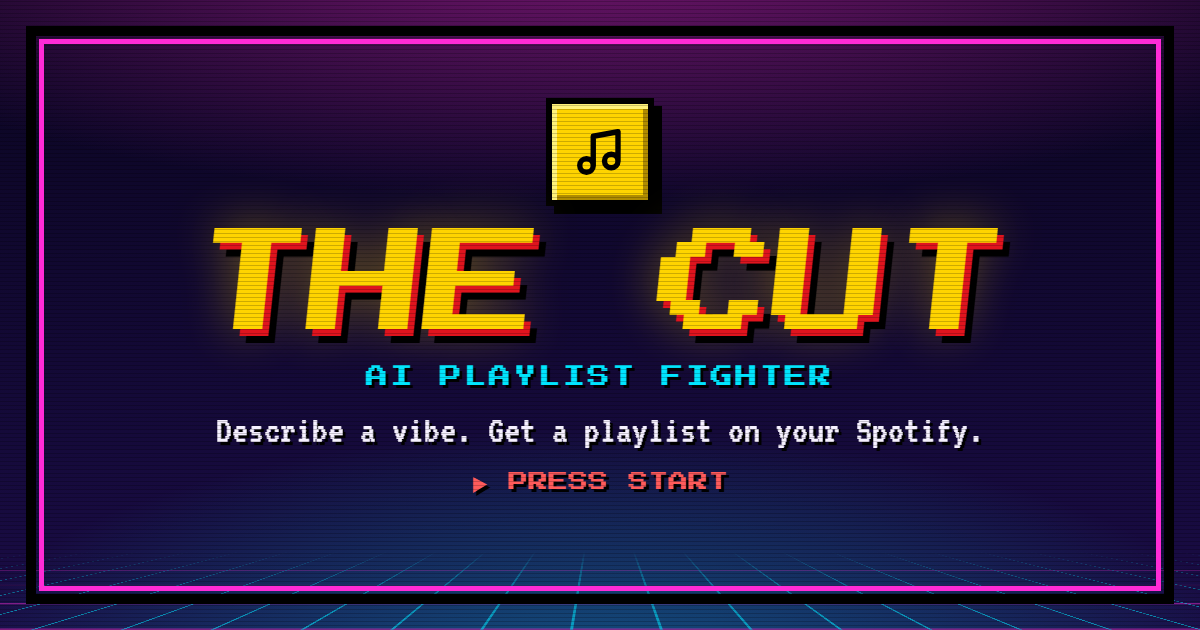
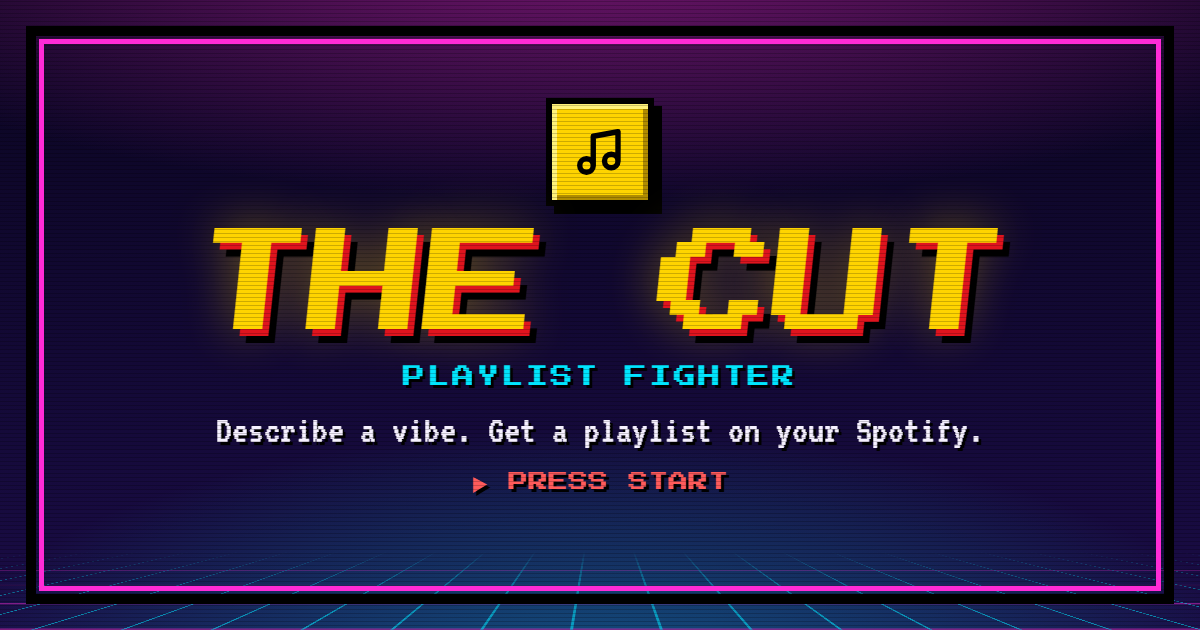
changed from AI playlist Fighter to Playlist Fighter

Changed region(s): [[0.3083, 0.573, 0.7092, 0.6333]]

diff --git a/index.html b/index.html
@@ -15,13 +15,13 @@
          so these must live in the static HTML, and URLs must be absolute. -->
     <meta property="og:type" content="website" />
     <meta property="og:site_name" content="THE CUT" />
-    <meta property="og:title" content="THE CUT · AI playlist fighter" />
+    <meta property="og:title" content="THE CUT · Playlist fighter" />
     <meta property="og:description" content="Describe a vibe. Get a playlist on your Spotify." />
     <meta property="og:url" content="https://a-p-frontend-production.up.railway.app/" />
     <meta property="og:image" content="https://a-p-frontend-production.up.railway.app/og-image.png" />
     <meta property="og:image:width" content="1200" />
     <meta property="og:image:height" content="630" />
-    <meta property="og:image:alt" content="THE CUT, AI playlist fighter: describe a vibe, get a playlist on your Spotify." />
+    <meta property="og:image:alt" content="THE CUT, playlist fighter: describe a vibe, get a playlist on your Spotify." />
     <meta name="twitter:card" content="summary_large_image" />
 
     <link rel="preconnect" href="https://fonts.googleapis.com" />

diff --git a/src/Pages/Login.jsx b/src/Pages/Login.jsx
@@ -7,7 +7,7 @@ export default function Login() {
       <div className="login__card">
         <span className="brand__mark brand__mark--lg"><Icon name="music" size={32} /></span>
         <h1 className="login__title">THE CUT</h1>
-        <p className="login__tagline">AI playlist fighter · Est. 199X / 2099</p>
+        <p className="login__tagline">Playlist fighter · Est. 199X / 2099</p>
         <p className="muted">
           Describe a mood, a moment or a genre. We'll pick the songs and save the playlist straight to your Spotify.
         </p>
